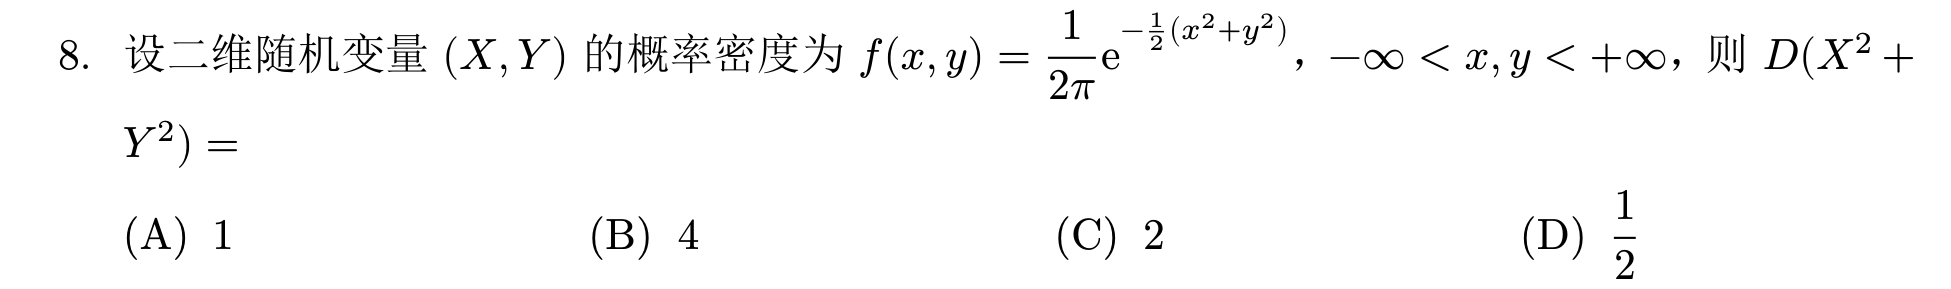
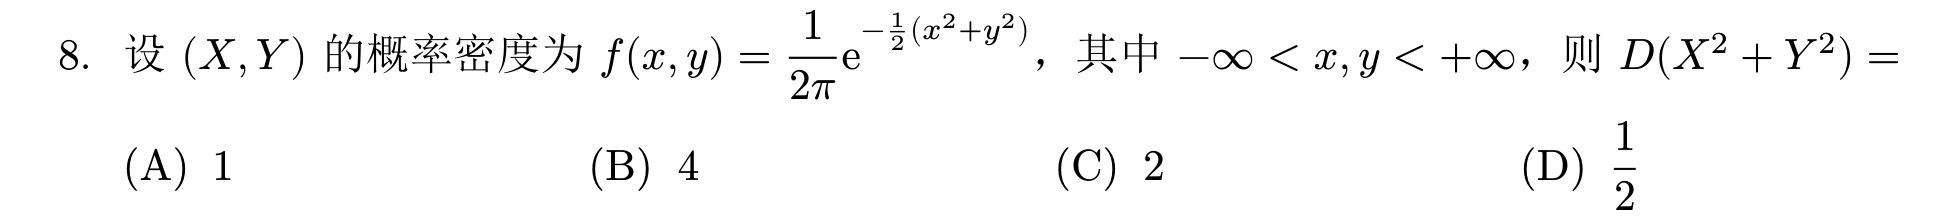
Keep Li Lin choice formulas together

diff --git a/tex/lilin/06/choice.tex b/tex/lilin/06/choice.tex
@@ -48,7 +48,13 @@
 \QuestionBreak
 
 \begin{question}[index=5]
-设 $3$ 维列向量 $\vect\alpha_1,\vect\alpha_2,\vect\alpha_3$ 线性无关，$\vect A=(a_{ij})_{3\times3}$ 满足 $\vect A\vect\alpha_1=\vect\alpha_1$，$\vect A\vect\alpha_2=\vect\alpha_2-\vect\alpha_3$，$\vect A\vect\alpha_3=\vect\alpha_3-\vect\alpha_1$，$A_{ij}$ 是 $a_{ij}$ 的代数余子式，则 $A_{11}+A_{22}+A_{33}=$
+设 $3$ 维列向量 $\vect\alpha_1,\vect\alpha_2,\vect\alpha_3$ 线性无关，$\vect A=(a_{ij})_{3\times3}$ 满足
+\[
+\vect A\vect\alpha_1=\vect\alpha_1,\qquad
+\vect A\vect\alpha_2=\vect\alpha_2-\vect\alpha_3,\qquad
+\vect A\vect\alpha_3=\vect\alpha_3-\vect\alpha_1\text{。}
+\]
+若 $A_{ij}$ 是 $a_{ij}$ 的代数余子式，则 $A_{11}+A_{22}+A_{33}=$
 \begin{choices}[columns=4]
 \item $0$
 \item $1$
@@ -85,7 +91,7 @@
 \QuestionBreak
 
 \begin{question}[index=8]
-设二维随机变量 $(X,Y)$ 的概率密度为 $f(x,y)=\dfrac1{2\pi}\eu^{-\frac12(x^2+y^2)}$，$-\infty<x,y<+\infty$，则 $D(X^2+Y^2)=$
+设 $(X,Y)$ 的概率密度为 $f(x,y)=\dfrac1{2\pi}\eu^{-\frac12(x^2+y^2)}$，其中 $-\infty<x,y<+\infty$，则 \mbox{$D(X^2+Y^2)=$}
 \begin{choices}[columns=4]
 \item $1$
 \item $4$
